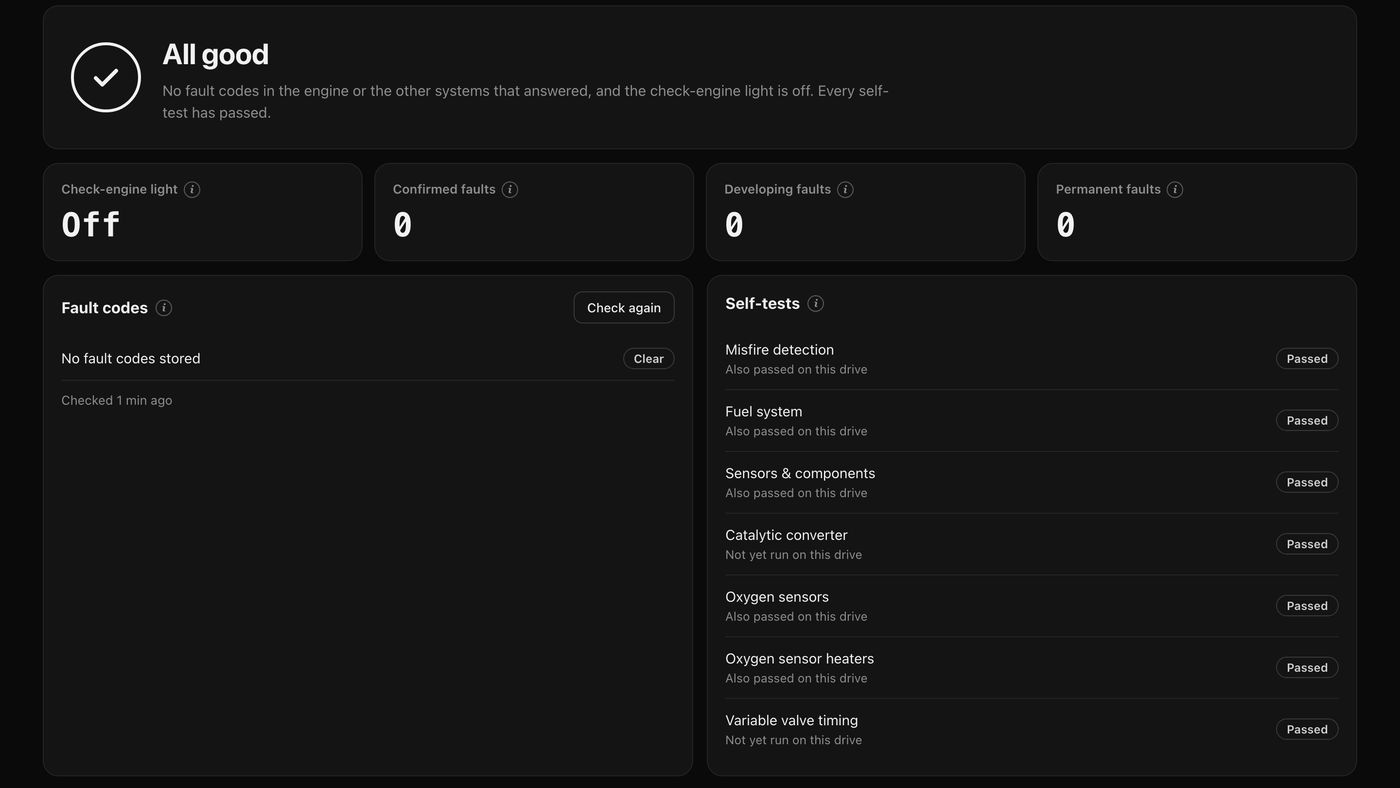
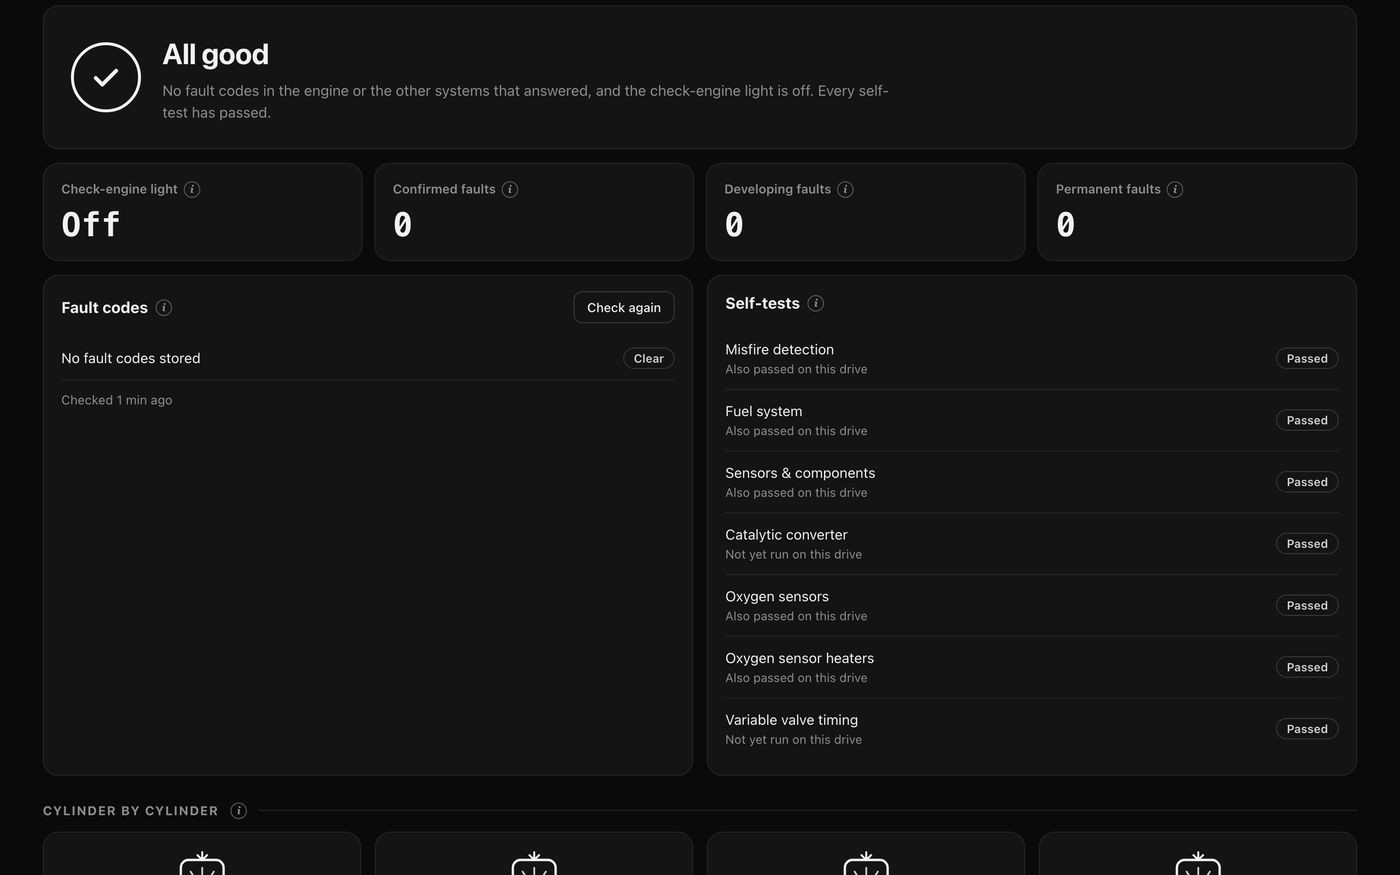
Fix Safari border shimmer while scrolling; gallery rows of equal height and click-to-enlarge
Safari draws backdrop-blurred rounded cards and sideways scrollers as separate layers,
so their edges went rough mid-scroll. Cards drop the (barely visible) blur; tables put
the border on a plain isolated box and only scroll sideways on phones.

diff --git a/src/pages/ProjectPages.jsx b/src/pages/ProjectPages.jsx
@@ -1,6 +1,6 @@
-import React, { useState, useCallback } from 'react';
+import React, { useState, useCallback, useEffect } from 'react';
 import { useParams } from 'react-router-dom';
-import { Github, ExternalLink, Apple, Play, Lock } from 'lucide-react';
+import { Github, ExternalLink, Apple, Play, Lock, X, ChevronLeft, ChevronRight } from 'lucide-react';
 import Seo from '../components/Seo';
 import Breadcrumbs from '../components/Breadcrumbs';
 import ProjectGrid from '../components/ProjectGrid';
@@ -109,9 +109,52 @@ export function ProjectsIndexPage() {
     );
 }
 
+// Full-screen view of one gallery image: click outside or Esc to close, arrow keys to move.
+function Lightbox({ items, index, onClose, onMove }) {
+    useEffect(() => {
+        if (index === null) return undefined;
+        const onKey = (e) => {
+            if (e.key === 'Escape') onClose();
+            if (e.key === 'ArrowRight') onMove(1);
+            if (e.key === 'ArrowLeft') onMove(-1);
+        };
+        const y = window.scrollY;
+        document.documentElement.style.overflow = 'hidden';
+        document.body.style.overflow = 'hidden';
+        window.addEventListener('keydown', onKey);
+        return () => {
+            document.documentElement.style.overflow = '';
+            document.body.style.overflow = '';
+            window.removeEventListener('keydown', onKey);
+            window.scrollTo(0, y);
+        };
+    }, [index, onClose, onMove]);
+
+    if (index === null) return null;
+    const [src, caption] = items[index];
+    const navBtn = 'absolute top-1/2 -translate-y-1/2 w-11 h-11 flex items-center justify-center bg-black/60 text-white rounded-full hover:bg-black/80 transition-colors';
+    return (
+        <div className="fixed inset-0 z-[1001] bg-black/85 flex flex-col items-center justify-center p-3 md:p-8" onClick={onClose} role="dialog" aria-modal="true" aria-label={caption}>
+            <img src={src} alt={caption} className="max-w-full max-h-[82vh] object-contain rounded-lg border border-gray-700 shadow-2xl" onClick={(e) => e.stopPropagation()} />
+            <p className="mt-3 text-sm md:text-base text-gray-300 text-center">{caption} <span className="text-gray-500">· {index + 1} / {items.length}</span></p>
+            <button onClick={onClose} aria-label="Close" className="absolute top-4 right-4 w-10 h-10 flex items-center justify-center bg-black/60 text-white rounded-full hover:bg-black/80 transition-colors"><X size={22} /></button>
+            {items.length > 1 && (
+                <>
+                    <button onClick={(e) => { e.stopPropagation(); onMove(-1); }} aria-label="Previous image" className={`${navBtn} left-3 md:left-6`}><ChevronLeft size={24} /></button>
+                    <button onClick={(e) => { e.stopPropagation(); onMove(1); }} aria-label="Next image" className={`${navBtn} right-3 md:right-6`}><ChevronRight size={24} /></button>
+                </>
+            )}
+        </div>
+    );
+}
+
 export function ProjectPage() {
     const { slug } = useParams();
     const project = getProject(slug);
+    const [zoom, setZoom] = useState(null);
+    const closeZoom = useCallback(() => setZoom(null), []);
+    const count = project?.gallery?.length || 0;
+    const moveZoom = useCallback((d) => setZoom((i) => (i === null ? i : (i + d + count) % count)), [count]);
     if (!project) return <NotFound />;
 
     const path = `/projects/${project.slug}`;
@@ -207,20 +250,21 @@ export function ProjectPage() {
                 <>
                     <h2 className={h2Class}>Screenshots</h2>
                     <div className="grid gap-5 md:grid-cols-2">
-                        {project.gallery.map(([src, caption]) => (
+                        {project.gallery.map(([src, caption], i) => (
                             <figure key={caption}>
-                                <a href={src} target="_blank" rel="noopener noreferrer" aria-label={`${caption} (full size)`}>
+                                <button type="button" onClick={() => setZoom(i)} aria-label={`Enlarge: ${caption}`} className="block w-full cursor-zoom-in">
                                     <img
                                         src={src}
                                         alt={caption}
                                         loading="lazy"
                                         className={`w-full rounded-xl border border-gray-700 hover:border-yellow-500/60 transition-colors${project.imgDim ? ' opacity-[0.94]' : ''}`}
                                     />
-                                </a>
+                                </button>
                                 <figcaption className="mt-2 text-sm text-gray-400">{caption}</figcaption>
                             </figure>
                         ))}
                     </div>
+                    <Lightbox items={project.gallery} index={zoom} onClose={closeZoom} onMove={moveZoom} />
                 </>
             )}
 

diff --git a/src/data/projects.js b/src/data/projects.js
@@ -49,7 +49,8 @@ import ocrDiagram from "../assets/diagrams/ocr-benchmark.svg";
  * siteLabel   optional text for the site button (default "Live demo")
  * titleBreak  put the part after " - " on its own line in the page heading
  * imgDim      show screenshots at 94% opacity so bright UI sits softer on the page
- * gallery     optional [image, caption] pairs shown under "Screenshots"
+ * gallery     optional [image, caption] pairs shown two per row under "Screenshots";
+ *             keep the two images in each row the same height
  * type        schema.org type: MobileApplication | WebApplication | SoftwareApplication | SoftwareSourceCode | CreativeWork
  */
 export const projects = [
@@ -257,12 +258,12 @@ export const projects = [
         titleBreak: true,
         imgDim: true,
         gallery: [
-            [obd_health_check, "Health check: fault codes and every self-test"],
             [obd_mileage_trip, "Mileage, fuel used and trip cost in ₹"],
+            [obd_my_car, "My car: identity and every computer found"],
+            [obd_health_check, "Health check: fault codes and every self-test"],
+            [obd_swift_live, "Second car: 2010 Maruti Suzuki Swift"],
             [obd_past_trips, "Past trips, second by second"],
             [obd_hidden_data, "Cracking Hyundai's hidden data"],
-            [obd_my_car, "My car: identity and every computer found"],
-            [obd_swift_live, "Second car: 2010 Maruti Suzuki Swift"],
         ],
         metaDescription:
             "CAR OBD Dashboard AI reads everything a car's computers know through a ₹500 ELM327 Bluetooth scanner: live gauges, misfires, health check, mileage and hidden data.",

diff --git a/src/components/DetailBlocks.jsx b/src/components/DetailBlocks.jsx
@@ -26,7 +26,10 @@ export const FactsTable = ({ rows }) => (
 export const ResultTable = ({ table }) => (
     <figure className="mt-6">
         <figcaption className="text-base font-semibold text-gray-200 mb-2">{table.title}</figcaption>
-        <div className="overflow-x-auto rounded-lg border border-gray-700">
+        {/* Clip and border on a plain box; only phones get a sideways scroller. Safari draws
+            scrollers as separate layers, which made the border shimmer while the page scrolled. */}
+        <div className="isolate rounded-lg border border-gray-700 overflow-hidden">
+        <div className="overflow-x-auto md:overflow-x-visible">
             <table className="w-full text-left text-sm border-collapse">
                 <thead className="bg-gray-800/80">
                     <tr>
@@ -45,6 +48,7 @@ export const ResultTable = ({ table }) => (
                     ))}
                 </tbody>
             </table>
+        </div>
         </div>
     </figure>
 );

diff --git a/src/components/Experience.jsx b/src/components/Experience.jsx
@@ -110,7 +110,7 @@ const Experience = ({ pageHeading = false }) => {
                                         hover:shadow-xl hover:border-yellow-400 transition-all duration-300
                                         bg-purple-800/20 cursor-pointer' */
                                         // Same card style as Projects, Certifications, Skills and Education
-                                        className='p-4 bg-gray-800/50 backdrop-blur-sm rounded-lg shadow-lg border border-gray-700
+                                        className='p-4 bg-gray-800/50 rounded-lg shadow-lg border border-gray-700
                                         hover:border-yellow-500/50 hover:shadow-yellow-500/10 hover:shadow-xl transition-all duration-300 cursor-pointer'
                                         onClick={() => toggleCard(index)}
                                     >

diff --git a/src/components/Education.jsx b/src/components/Education.jsx
@@ -71,7 +71,7 @@ const Education = ({ pageHeading = false }) => {
                             className='border-2 border-yellow-500/60 p-4 rounded-xl
                             hover:shadow-xl hover:border-yellow-400 transition-all duration-300 bg-slate-800/40 max-w-[550px] w-full mx-auto' */
                             // Same card style as Projects and Certifications
-                            className='p-4 bg-gray-800/50 backdrop-blur-sm rounded-lg shadow-lg border border-gray-700
+                            className='p-4 bg-gray-800/50 rounded-lg shadow-lg border border-gray-700
                             hover:border-yellow-500/50 hover:shadow-yellow-500/10 hover:shadow-xl transition-all duration-300 max-w-[550px] w-full mx-auto'
                         >
                             <div className='flex items-center justify-between mb-1'>

diff --git a/src/components/Skills.jsx b/src/components/Skills.jsx
@@ -93,7 +93,7 @@ const Skills = ({ pageHeading = false }) => {
               className="border-2 border-yellow-500/60 p-5 rounded-xl bg-purple-800/20 shadow-lg
               hover:border-yellow-400 hover:shadow-yellow-500/10 hover:shadow-xl transition-all duration-300" */
               // Same card style as Projects and Certifications
-              className="p-5 bg-gray-800/50 backdrop-blur-sm rounded-lg shadow-lg border border-gray-700
+              className="p-5 bg-gray-800/50 rounded-lg shadow-lg border border-gray-700
               hover:border-yellow-500/50 hover:shadow-yellow-500/10 hover:shadow-xl transition-all duration-300">
               <h3 className="text-lg mb-4 text-center text-yellow-400 font-semibold">{skill.category}</h3>
               <div className="space-y-3">

diff --git a/src/components/Research.jsx b/src/components/Research.jsx
@@ -24,7 +24,7 @@ const Research = () => {
           return (
             <Reveal key={paper.slug} width="100%">
               <div
-                className='group cursor-pointer bg-gray-800/50 backdrop-blur-sm rounded-lg shadow-lg border border-gray-700 hover:border-yellow-500/50 transition-all duration-300 overflow-hidden max-w-[750px] w-full mx-auto p-4 md:p-5'
+                className='group cursor-pointer bg-gray-800/50 rounded-lg shadow-lg border border-gray-700 hover:border-yellow-500/50 transition-all duration-300 overflow-hidden max-w-[750px] w-full mx-auto p-4 md:p-5'
                 onClick={() => navigate(to)}
               >
                 <h3 className='text-base md:text-lg font-semibold text-gray-200 leading-snug group-hover:text-yellow-400 transition-colors'>

diff --git a/src/components/Certifications.jsx b/src/components/Certifications.jsx
@@ -37,7 +37,7 @@ const Certifications = ({ pageHeading = false }) => {
         {projects.map((project) => (
           <Reveal key={project.title} width="100%" fill>
             <div
-              className='h-full bg-gray-800/50 backdrop-blur-sm rounded-lg shadow-lg border border-gray-700
+              className='h-full bg-gray-800/50 rounded-lg shadow-lg border border-gray-700
               hover:border-yellow-500/50 hover:shadow-yellow-500/10 hover:shadow-xl
               transition-all duration-300 overflow-hidden cursor-pointer group'
               onClick={() => setSelectedCert(project)}
